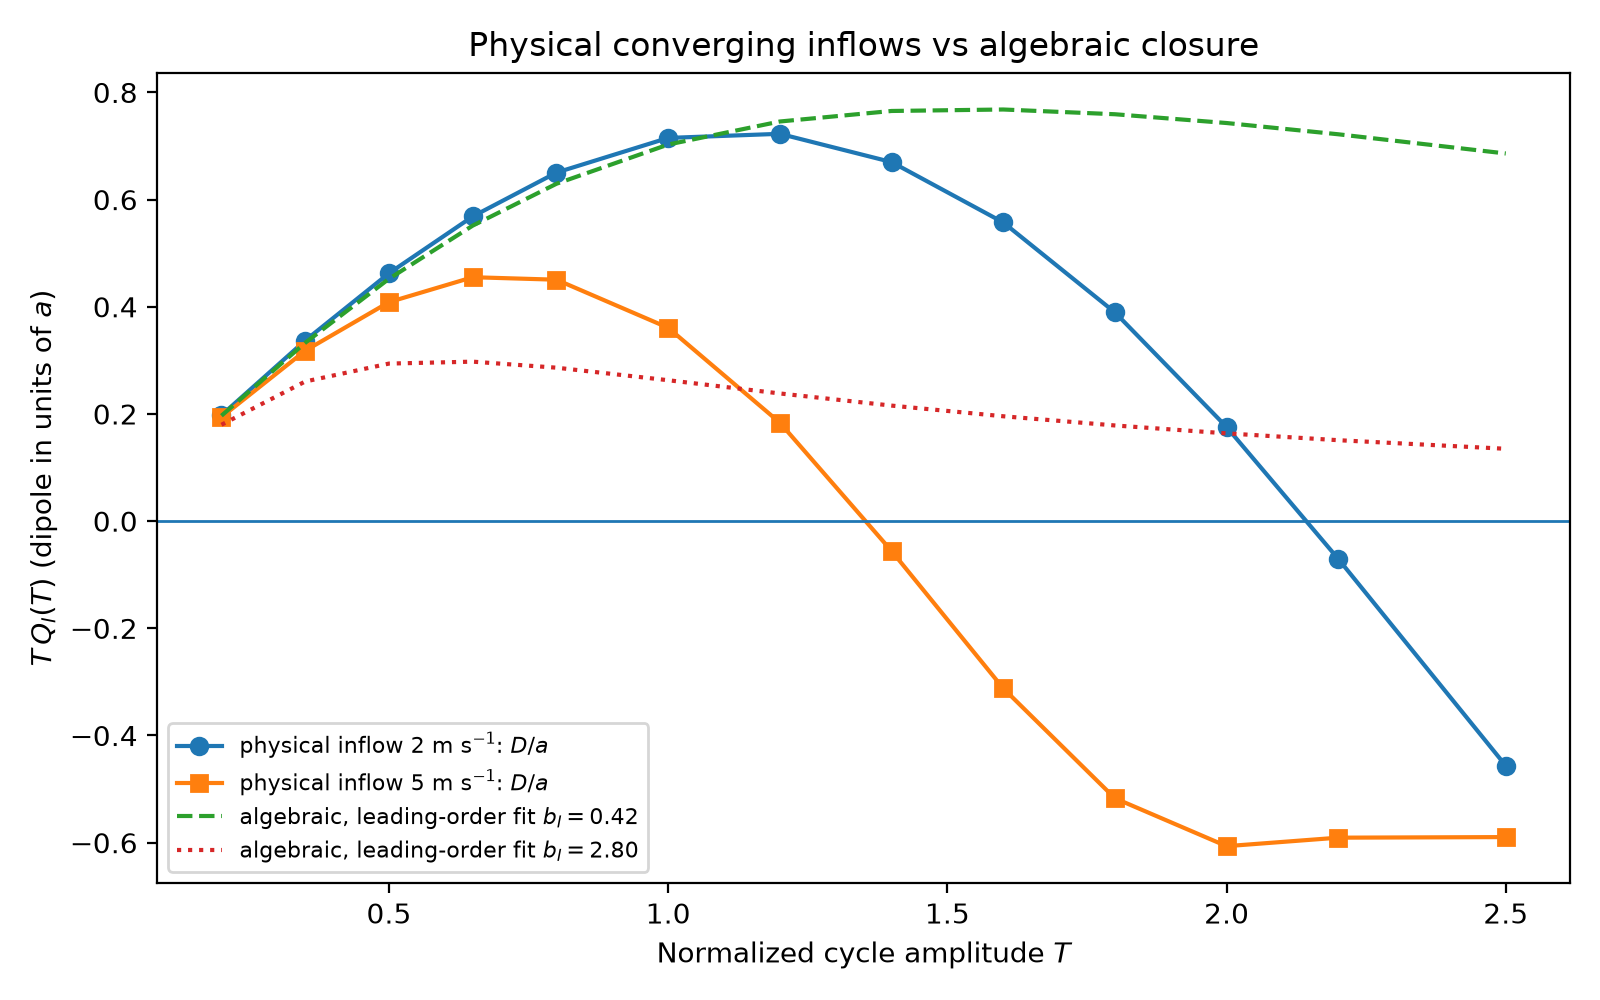
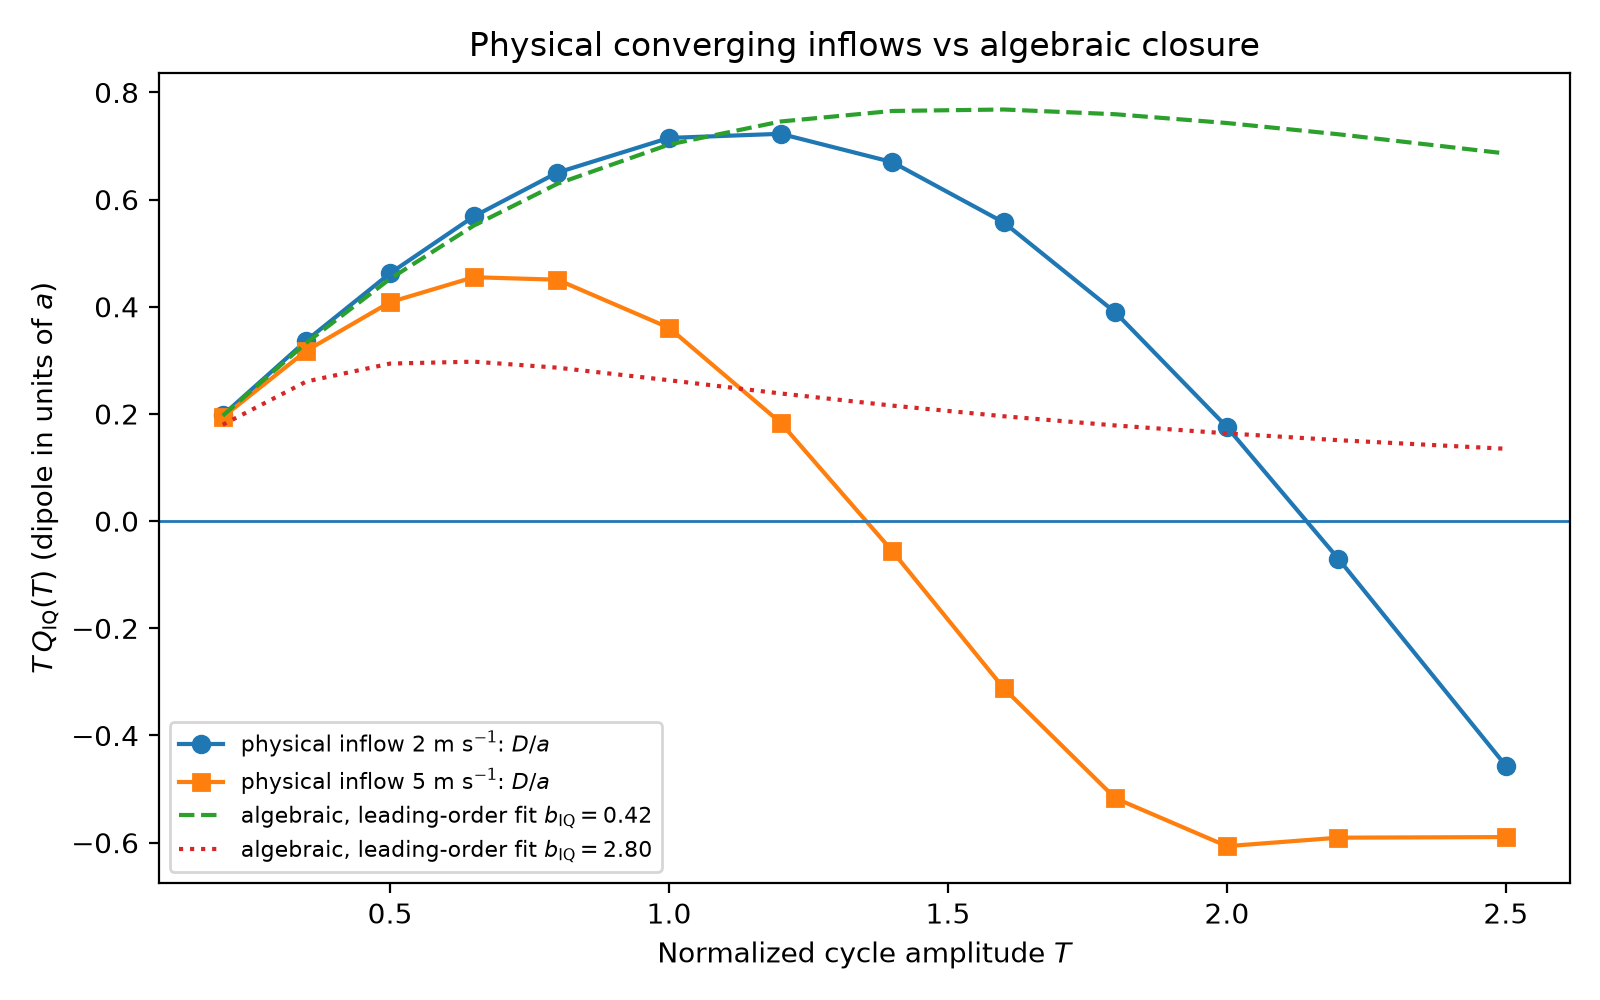
Rename b_I to b_IQ in the manuscript and validation figure labels
Completes the notation change requested in review: the inflow strength
parameter is now b_IQ throughout the manuscript (nine occurrences),
parallel to b_TQ and b_LQ, and the labels of the two inflow-validation
figures used in the manuscript (figV4, figV5) are regenerated with the
Q_IQ / b_IQ notation. Numerical results are unchanged; code identifiers
keep the b_I name.

Claude-Session: https://claude.ai/code/session_01PmgudpFb3qQz1S9TE53gMs

diff --git a/manuscript/reduced_sft_manuscript.tex b/manuscript/reduced_sft_manuscript.tex
@@ -603,7 +603,7 @@ efficiency factor,
 \begin{equation}
 Q_{\rm IQ}(T)
 =
-\frac{1}{1+b_{\rm I}T^2}.
+\frac{1}{1+b_{\rm IQ}T^2}.
 \label{eq:QI}
 \end{equation}
 %
@@ -611,7 +611,7 @@ Physical inflows act on the transport operator rather than on the source,
 so Equation~(\ref{eq:QI}) is a closure resting on two assumptions: for
 weak inflows the perturbation of the final dipole is linear in the inflow
 amplitude, which scales with the magnetic activity, giving a leading-order
-multiplicative reduction $1-b_{\rm I}T^2+\mathcal{O}(T^4)$; and the
+multiplicative reduction $1-b_{\rm IQ}T^2+\mathcal{O}(T^4)$; and the
 algebraic form is the $[0/1]$ Pad\'e resummation of that series, which
 agrees with the perturbative result at small $T$ while remaining positive
 and monotonic for all $T$. The same argument motivates the algebraic form
@@ -621,10 +621,10 @@ The strength is calibrated against the SFT inflow study of
 \citet{Talafha2025}, who find that activity-dependent surface inflows
 lower the net contribution to the dipole moment by $10$\,--\,$25$~per
 cent. Setting the suppressed fraction at $T=1$ to the centre of this
-range, $b_{\rm I}=f/(1-f)$ with $f\simeq0.17$, gives
+range, $b_{\rm IQ}=f/(1-f)$ with $f\simeq0.17$, gives
 %
 \begin{equation}
-b_{\rm I}=0.2,
+b_{\rm IQ}=0.2,
 \label{eq:bI_value}
 \end{equation}
 %
@@ -913,7 +913,7 @@ from the analytic derivative
 =
 -\frac{2b_{\rm TQ}T}{1+b_{\rm TQ}T^2}
 -
-\frac{2b_{\rm I}T}{1+b_{\rm I}T^2}
+\frac{2b_{\rm IQ}T}{1+b_{\rm IQ}T^2}
 -
 \frac{
 2b_{\rm LQ}T
@@ -951,7 +951,7 @@ b_{\rm TQ}=0.15,
 \qquad
 b_{\rm LQ}=2.4^\circ,
 \qquad
-b_{\rm I}=0.2,
+b_{\rm IQ}=0.2,
 \qquad
 \lambda_R=20^\circ .
 \label{eq:nonlinear_reference_params}
@@ -1370,14 +1370,14 @@ prediction exists -- the hardest test for a source-side factor
 (Figure~\ref{fig:inflow_validation}). At the reference inflow amplitude
 ($2~{\rm m~s^{-1}}$ at $T=1$, scaling as $T^2$), the effective algebraic
 strength at the calibration point is $b_{\rm eff}(T{=}1)=0.40$, with a
-leading-order fit $b_{\rm I}\simeq0.42$ over $T\le1.2$; the algebraic
+leading-order fit $b_{\rm IQ}\simeq0.42$ over $T\le1.2$; the algebraic
 form is adequate for weak-to-moderate cycles, but $b_{\rm eff}$ grows
 with $T$ (full-scan fit $1.5$; Figure~\ref{fig:app_beff}): the physical
 nonlinearity is super-quadratic, and the constant-$b$ Pad\'e form
 under-predicts the suppression of strong cycles. At $5~{\rm m~s^{-1}}$ the
 dipole reverses sign at $T=1.40$ -- over-quenching to reversal, again
 outside the domain of positive closures. A useful cross-calibration
-follows: the value $b_{\rm I}=0.2$ adopted from \citet{Talafha2025}
+follows: the value $b_{\rm IQ}=0.2$ adopted from \citet{Talafha2025}
 corresponds to inflow amplitudes of roughly $1~{\rm m~s^{-1}}$ at cycle
 maximum in this model's convention.
 
@@ -1666,7 +1666,7 @@ marked, and versus the latitude-quenching strength at fixed $D_0=3$.}
 \caption{Constancy test of the algebraic inflow closure
 (Section~\ref{sec:physical_validation}): the effective strength
 $b_{\rm eff}(T)=(1/Q_{\rm IQ}-1)/T^2$ for physical inflows of $2$ and
-$5~{\rm m~s^{-1}}$, compared with the calibrated $b_{\rm I}=0.2$. The
+$5~{\rm m~s^{-1}}$, compared with the calibrated $b_{\rm IQ}=0.2$. The
 growth of $b_{\rm eff}$ with $T$ shows the super-quadratic character of
 the physical nonlinearity.}
 \label{fig:app_beff}

diff --git a/physical_validation_analysis.py b/physical_validation_analysis.py
@@ -37,8 +37,8 @@ framework -- no tuned parameters.
     The SFT is run with inflow_mode = "physical" at 2 and 5 m/s. Inflows act
     on the transport operator, so no kernel prediction exists -- that is the
     point of the test: how well can a source-side algebraic factor
-    Q_I = 1/(1 + b_I T^2) absorb a transport-side nonlinearity? The
-    effective strength b_eff(T) = (1/Q_I - 1)/T^2 measures the quality of
+    Q_IQ = 1/(1 + b_IQ T^2) absorb a transport-side nonlinearity? The
+    effective strength b_eff(T) = (1/Q_IQ - 1)/T^2 measures the quality of
     the algebraic form (constant b_eff = perfect form).
 
 Outputs are saved to ./figures_validation/.
@@ -403,12 +403,12 @@ if __name__ == "__main__":
     plt.plot(T_VALUES, D_inf2 / a_lin, "o-", label=r"physical inflow 2 m s$^{-1}$: $D/a$")
     plt.plot(T_VALUES, D_inf5 / a_lin, "s-", label=r"physical inflow 5 m s$^{-1}$: $D/a$")
     plt.plot(T_VALUES, T_VALUES / (1.0 + b_lead2 * T_VALUES**2), "--",
-             label=fr"algebraic, leading-order fit $b_I = {b_lead2:.2f}$")
+             label=fr"algebraic, leading-order fit $b_{{\rm IQ}} = {b_lead2:.2f}$")
     plt.plot(T_VALUES, T_VALUES / (1.0 + b_lead5 * T_VALUES**2), ":",
-             label=fr"algebraic, leading-order fit $b_I = {b_lead5:.2f}$")
+             label=fr"algebraic, leading-order fit $b_{{\rm IQ}} = {b_lead5:.2f}$")
     plt.axhline(0.0, linewidth=1)
     plt.xlabel(r"Normalized cycle amplitude $T$")
-    plt.ylabel(r"$T\,Q_I(T)$ (dipole in units of $a$)")
+    plt.ylabel(r"$T\,Q_{\rm IQ}(T)$ (dipole in units of $a$)")
     plt.title("Physical converging inflows vs algebraic closure")
     plt.legend(fontsize=8)
     plt.tight_layout()
@@ -420,9 +420,9 @@ if __name__ == "__main__":
     plt.plot(T_VALUES, b_eff2, "o-", label=r"2 m s$^{-1}$")
     plt.plot(T_VALUES, b_eff5, "s-", label=r"5 m s$^{-1}$")
     plt.axhline(0.2, linestyle="--", linewidth=1.2,
-                label=r"calibrated $b_I = 0.2$ (Talafha et al. 2025)")
+                label=r"calibrated $b_{\rm IQ} = 0.2$ (Talafha et al. 2025)")
     plt.xlabel(r"Normalized cycle amplitude $T$")
-    plt.ylabel(r"$b_{\rm eff}(T) = (1/Q_I - 1)/T^2$")
+    plt.ylabel(r"$b_{\rm eff}(T) = (1/Q_{\rm IQ} - 1)/T^2$")
     plt.title("Constancy test of the algebraic inflow closure")
     plt.legend(fontsize=8)
     plt.tight_layout()